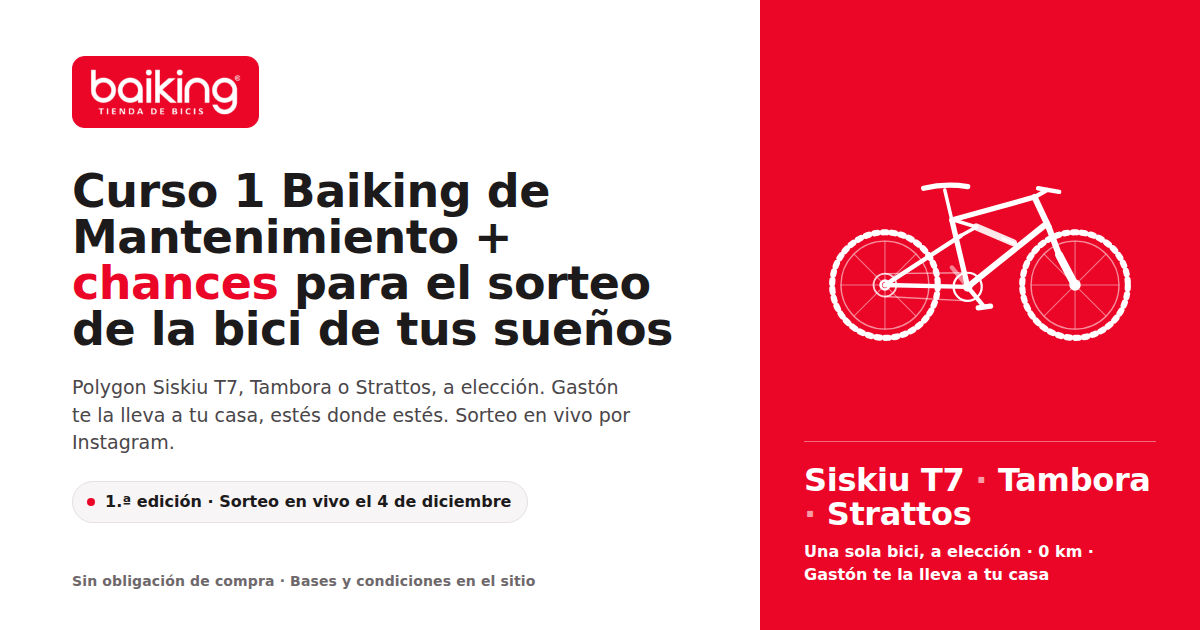
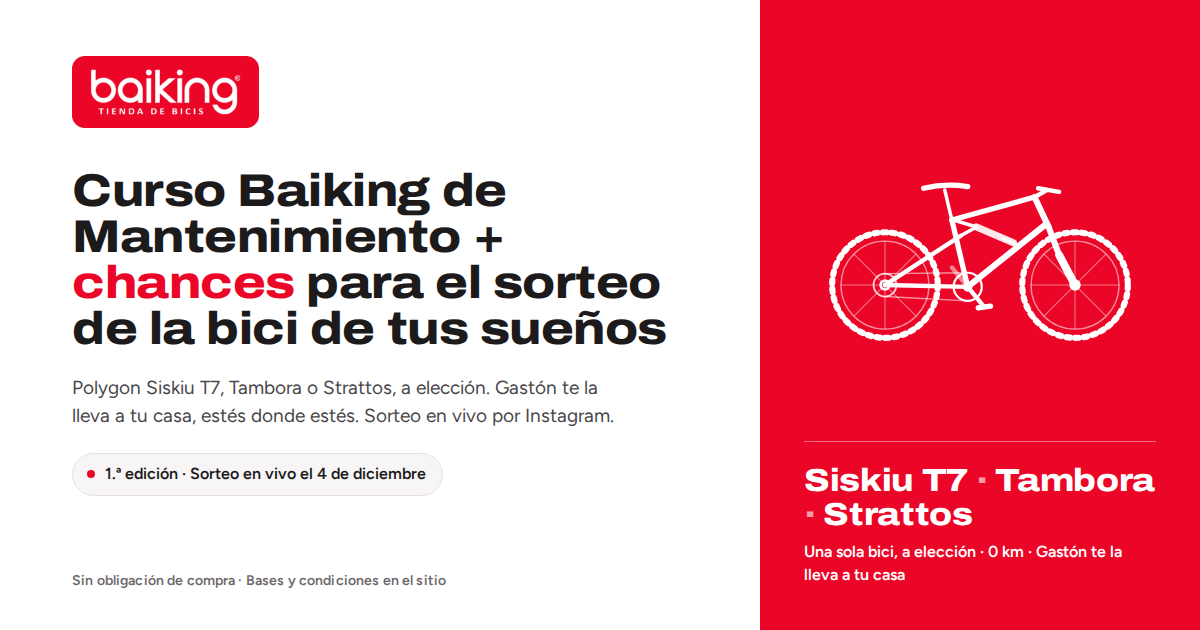
Hero: link a las bases junto a la cuenta regresiva y título sin el "1"
Claude-Session: https://claude.ai/code/session_019dv6uEG5rmUrQCWb93xgMR

diff --git a/index.html b/index.html
@@ -45,7 +45,7 @@
         </div>
         <div class="shop-title reveal">
           <span class="chip chip-curso"><svg><use href="#ico-star"></use></svg> Curso digital</span>
-          <h1>Curso 1 Baiking de Mantenimiento + <em><span data-unidad-plural>chances</span></em> para el sorteo de la bici de tus sueños</h1>
+          <h1>Curso Baiking de Mantenimiento + <em><span data-unidad-plural>chances</span></em> para el sorteo de la bici de tus sueños</h1>
         </div>
       </div>
       <div class="container shop-grid">
@@ -71,7 +71,7 @@
             <li><svg><use href="#ico-live"></use></svg> Sorteo en vivo por Instagram</li>
             <li><svg><use href="#ico-lock"></use></svg> Pago por transferencia bancaria</li>
           </ul>
-          <p class="countdown-inline"><span id="countdown-label">Las inscripciones cierran en</span> <b id="countdown-inline">—</b> · Sorteo el <span data-fecha-sorteo>—</span> a las <span data-hora-sorteo>—</span>, en vivo por <span data-instagram>@baikingtiendadebicis</span></p>
+          <p class="countdown-inline"><span id="countdown-label">Las inscripciones cierran en</span> <b id="countdown-inline">—</b> · Sorteo el <span data-fecha-sorteo>—</span> a las <span data-hora-sorteo>—</span>, en vivo por <span data-instagram>@baikingtiendadebicis</span> · <a href="bases-y-condiciones.html">Ver bases y condiciones</a></p>
         </div>
       </div>
     </section>

diff --git a/assets/img/og.html b/assets/img/og.html
@@ -55,7 +55,7 @@
 <body>
   <div class="copy">
     <div class="brand"><img src="logo-baiking-rojo.png" alt="Baiking"></div>
-    <h1>Curso 1 Baiking de Mantenimiento + <em>chances</em> para el sorteo de la bici de tus sueños</h1>
+    <h1>Curso Baiking de Mantenimiento + <em>chances</em> para el sorteo de la bici de tus sueños</h1>
     <p class="lead">Polygon Siskiu T7, Tambora o Strattos, a elección. Gastón te la lleva a tu casa, estés donde estés. Sorteo en vivo por Instagram.</p>
     <span class="pill"><i></i> {{edicion}} · Sorteo en vivo el {{fecha_sorteo}}</span>
     <div class="legal">Sin obligación de compra · Bases y condiciones en el sitio</div>

diff --git a/assets/css/styles.css b/assets/css/styles.css
@@ -2029,3 +2029,8 @@ h2 em,
 .shop-claim span {
   color: var(--rojo);
 }
+.countdown-inline a {
+  color: var(--rojo-ink);
+  text-decoration: underline;
+  text-underline-offset: 3px;
+}
